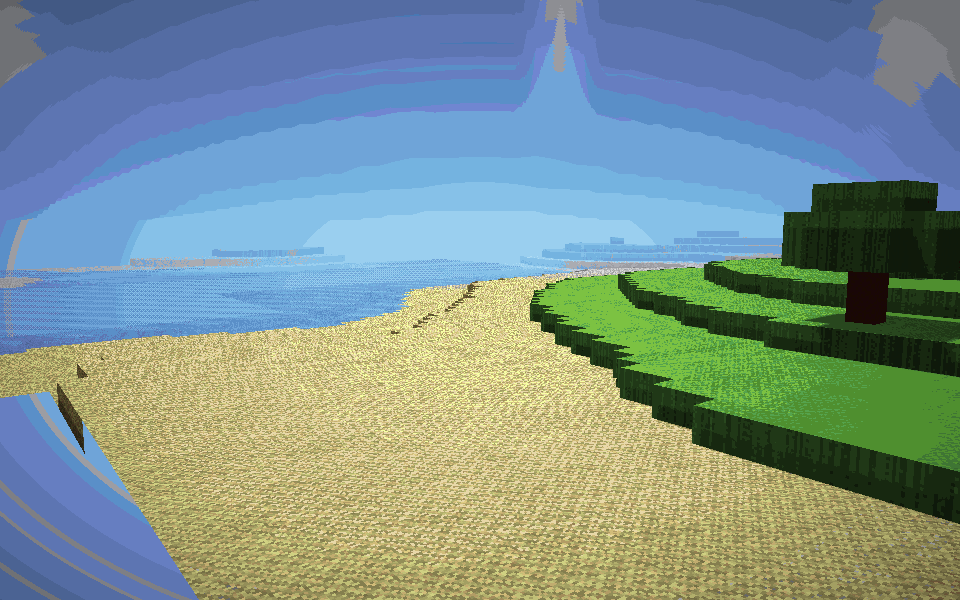
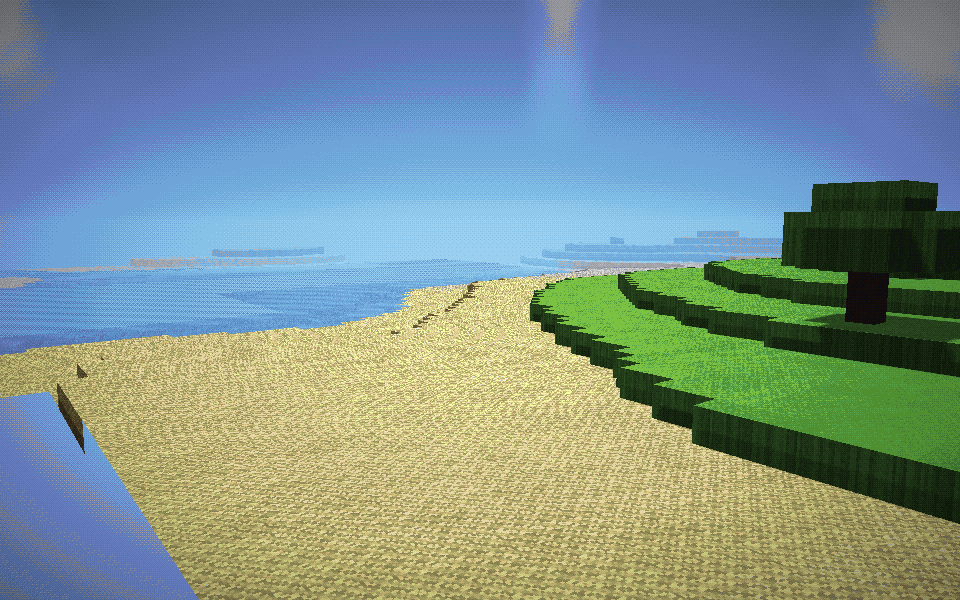
feat(fx T7): tramage ordonné du ciel et des dégradés
Le dégradé de ciel se cassait en bandes concentriques très visibles.

- post.frag : matrice de Bayer 8×8 récursive, amplitude d'un pas de LUT
- renderer.dither : interrupteur (servira à --no-fx)
- test GPU : plus longue bande du ciel 49 px → 7 px
- test de résolution interne : tramage coupé pour isoler l'upscale

diff --git a/tests/test_gl_render.py b/tests/test_gl_render.py
@@ -415,6 +415,8 @@ def test_resolution_interne_reduite(pyxel_headless):
     )
     try:
         assert renderer.scene_tex.size == (160, 100)
+        # Le tramage travaille à la résolution finale : on l'isole ici.
+        renderer.dither = False
         camera = Camera(16, 16, 8, yaw=0.6, pitch=-0.25, width=320, height=200)
         renderer.draw(camera, time=30.0)
         img = np.frombuffer(gl.read_indices(), np.uint8).reshape(200, 320)
@@ -457,5 +459,43 @@ def test_soleil_qui_bouge(pyxel_headless):
         sol_matin = matin[: 120 * 320].reshape(120, 320)
         sol_apres = apres_midi[: 120 * 320].reshape(120, 320)
         assert (sol_matin != sol_apres).mean() > 0.05, "les ombres ne tournent pas"
+    finally:
+        renderer.close()
+
+
+def _plus_longue_bande(colonne: np.ndarray) -> int:
+    """Longueur de la plus longue suite de pixels identiques consécutifs."""
+    meilleure = courante = 1
+    for i in range(1, len(colonne)):
+        courante = courante + 1 if colonne[i] == colonne[i - 1] else 1
+        meilleure = max(meilleure, courante)
+    return meilleure
+
+
+def test_tramage_du_ciel(pyxel_headless):
+    """Le tramage ordonné doit casser les bandes du dégradé de ciel."""
+    from pycraft.gl.context import GlContext
+    from pycraft.gl.renderer_gl import GlRenderer
+
+    monde = World(sx=32, sy=32, sz=16, seed=0)
+    monde.data = bytearray(len(monde.data))
+    gl = GlContext(320, 200)
+    renderer = GlRenderer(
+        monde, ChunkMeshes(monde), 320, 200, view_distance=40, detail_radius=16, gl=gl
+    )
+    try:
+        camera = Camera(16, 16, 20, yaw=0.4, pitch=0.55, width=320, height=200)
+        renderer.dither = False
+        renderer.draw(camera, time=30.0)
+        sans = np.frombuffer(gl.read_indices(), np.uint8).reshape(200, 320)
+        renderer.dither = True
+        renderer.draw(camera, time=30.0)
+        avec = np.frombuffer(gl.read_indices(), np.uint8).reshape(200, 320)
+
+        bande_sans = _plus_longue_bande(sans[:, 160])
+        bande_avec = _plus_longue_bande(avec[:, 160])
+        assert bande_sans > 12, "sans tramage le ciel doit présenter de longues bandes"
+        assert bande_avec < bande_sans / 2, "le tramage doit casser les bandes"
+        assert (sans != avec).mean() > 0.05
     finally:
         renderer.close()

diff --git a/pycraft/gl/renderer_gl.py b/pycraft/gl/renderer_gl.py
@@ -64,6 +64,7 @@ class GlRenderer:
         self._jour = 1.0
         self._temps = 0.0
         self.rain = 0.0
+        self.dither = True
         self._tint = (1.0, 1.0, 1.0)
         self._ciel_horizon = np.array(config.PALETTE[config.SKY_HORIZON], np.float32) / 255.0
         self._ciel_zenith = np.array(config.PALETTE[config.SKY_TOP], np.float32) / 255.0
@@ -389,6 +390,7 @@ class GlRenderer:
         self.post_prog["u_vignette"].value = 0.55
         self.post_prog["u_rain"].value = float(self.rain)
         self.post_prog["u_time"].value = float(self._temps)
+        self.post_prog["u_dither"].value = 1.0 if self.dither else 0.0
         self.post_vao.render()
 
     def invalidate(self, x: int, y: int) -> None:
